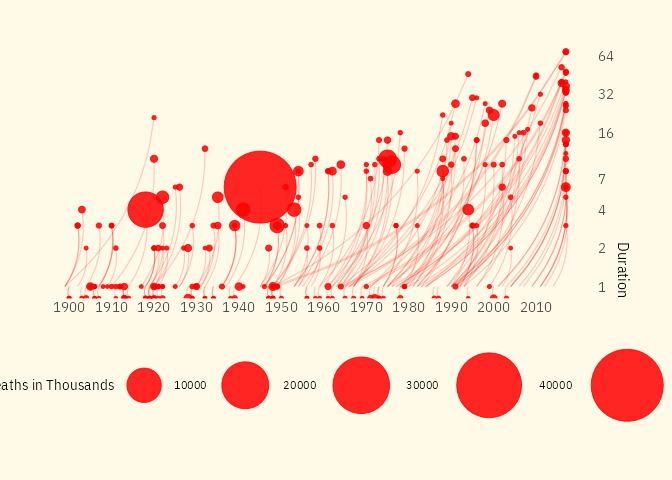
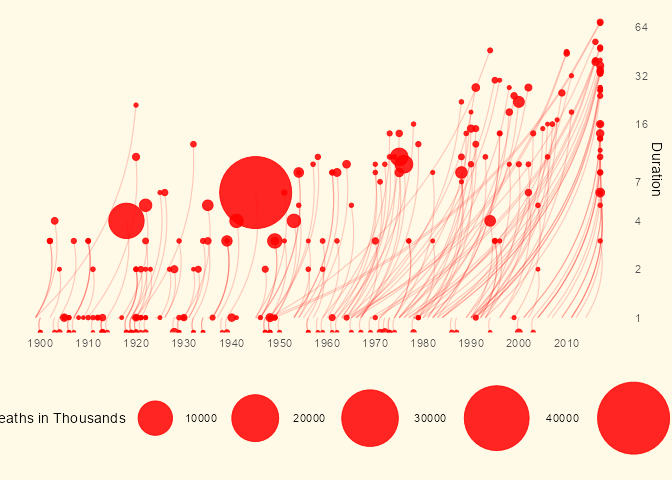
day after efforts

diff --git a/vizbuzz03/readme.md b/vizbuzz03/readme.md
@@ -7,10 +7,12 @@ Tan Ho
 knitr::opts_chunk$set(echo = TRUE, dev = "ragg_png")
 suppressPackageStartupMessages({
   library(tidyverse)
-  library(tantastic)
-  library(ggimage)
-  library(gridtext)
-  library(ggtext)
+  # library(tantastic)
+  library(nflplotR)
+  library(ggforce)
+  # library(ggimage)
+  # library(gridtext)
+  # library(ggtext)
   # library(ggthemes)
   # library(ggtext)
   # library(gridtext)
@@ -69,7 +71,7 @@ dat |>
   scale_x_continuous(breaks = seq(1900,2010,by = 10)) +
   # scale_size_continuous(range = c(0.05,0.5)) +
   scale_y_continuous(trans = "log2",breaks = c(0,1,2,4,7,16,32,64),position = "right") +
-  theme_uv() +
+  theme_minimal() +
   theme(
     plot.background = element_rect(fill = colours$beige, colour =  NA),
     panel.background = element_rect(fill = colours$beige, colour =  NA),
@@ -90,3 +92,42 @@ dat |>
     ## Warning: Transformation introduced infinite values in continuous y-axis
 
 ![](readme_files/figure-gfm/plot-1.png)<!-- -->
+
+``` r
+dat |>
+  mutate(scaled_fatalities = round(Fatalities/1000),
+         scaled_fatalities = scaled_fatalities/max(scaled_fatalities,na.rm = T),
+         scaled_fatalities = scaled_fatalities * 0.20 + 0.025) |> 
+  ggplot(aes(x = duration + 1, y = end, size = Fatalities/1000)) + 
+  geom_diagonal(aes(y = start, yend = end, x = 1, xend = duration + 1.01),color = "red",alpha = 0.2,inherit.aes = FALSE)+
+  geom_point(aes(size = fatalities),shape = 18, alpha = 0.5, color = "red") +
+  geom_from_path(aes(height = scaled_fatalities,
+                     width = scaled_fatalities),
+                 path = "poppy.png",
+                 alpha = 0.95) + 
+  scale_size_continuous(range = c(1,25),
+                        breaks = c(1000,2000,3000,4000,5000),
+                        guide = guide_legend(title.position = "top")) +
+  scale_y_continuous(breaks = seq(1900,2010,by = 10)) +
+  scale_x_continuous(trans = "log2",
+                     breaks = c(1,2,4,8,16,32,64),
+                     position = "top"
+  ) +
+  coord_flip() +
+  theme_minimal() +
+  theme(
+    plot.background = element_rect(fill = colours$beige, colour =  NA),
+    panel.background = element_rect(fill = colours$beige, colour =  NA),
+    legend.background = element_rect(fill = colours$beige, colour =  NA),
+    panel.grid.major.x = element_blank(),
+    panel.grid.major.y = element_blank(),
+    panel.grid.minor.x = element_blank(),
+    panel.grid.minor.y = element_blank(),
+    legend.key = element_rect(fill= colours$beige, colour =  NA),
+    legend.position = "bottom",
+    axis.title.x = element_blank()
+  ) + 
+  labs(x = "Duration", size = "Number of Deaths in Thousands")
+```
+
+![](readme_files/figure-gfm/plot2-1.png)<!-- -->
